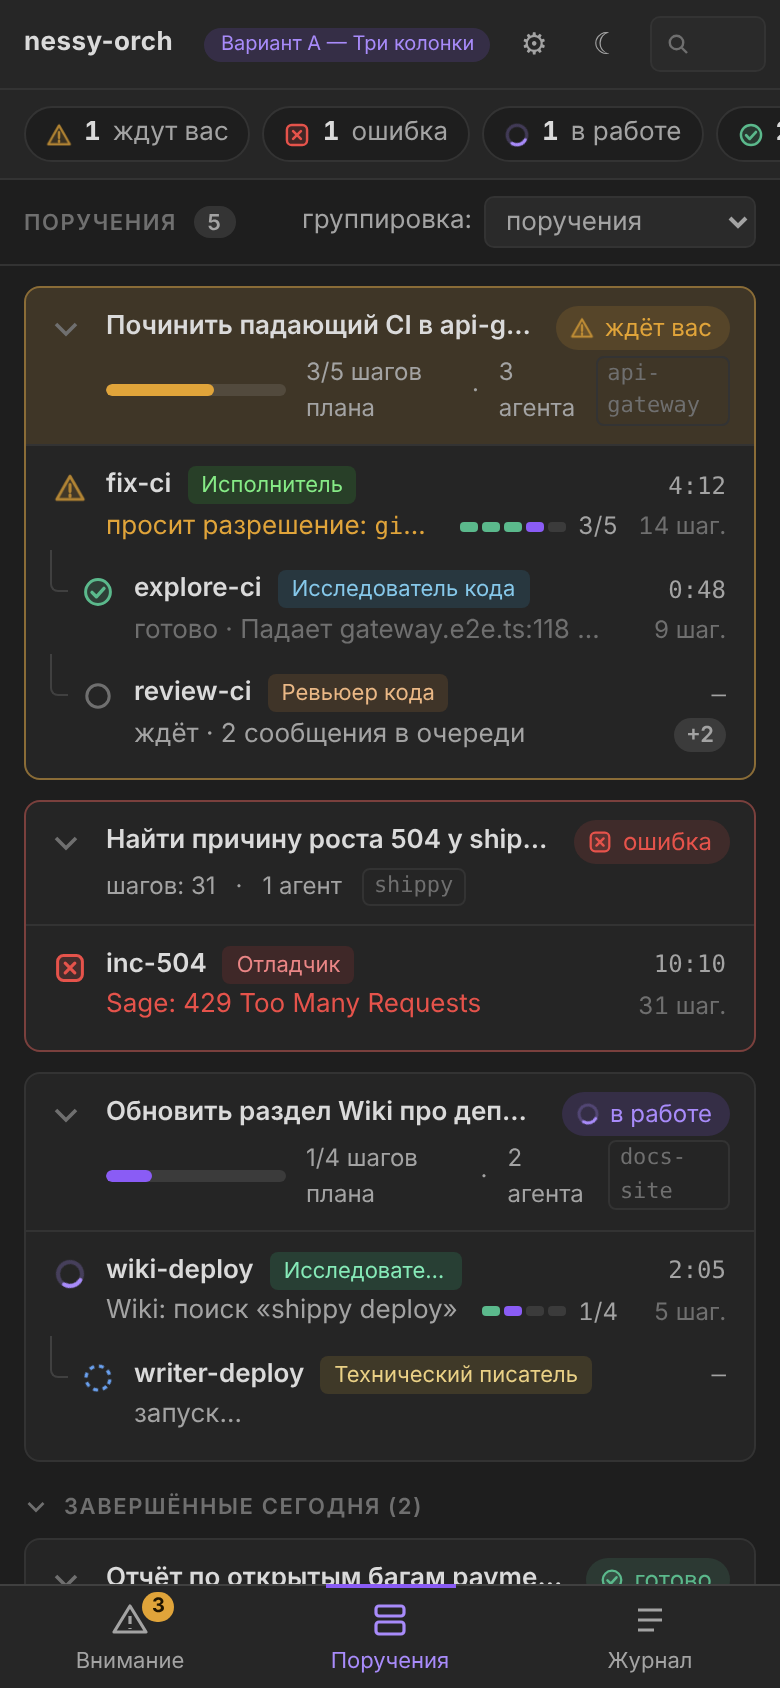
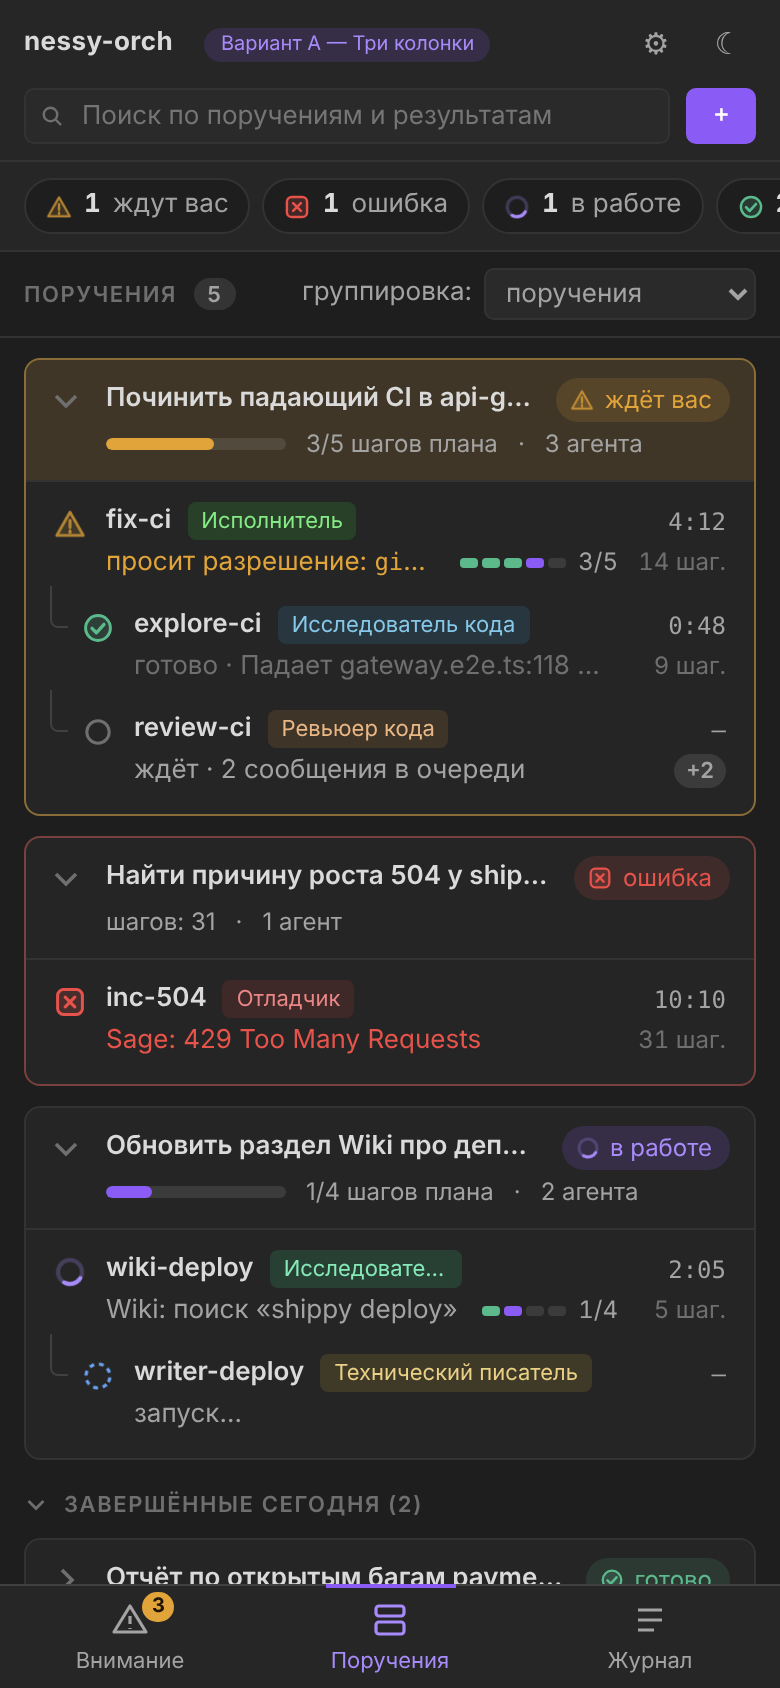
wip(docs): макеты UI v3 (в работе)
Claude-Session: https://claude.ai/code/session_0181iHrdy7NujeVwM1YcZ4FS

diff --git a/docs/mockups/b-board.html b/docs/mockups/b-board.html
@@ -61,9 +61,9 @@ code,.mono{font-family:var(--font-mono);font-size:12px}
 .col{flex:1 1 0;min-width:0;display:flex;flex-direction:column;background:var(--bg-alt);border:1px solid var(--border);border-radius:var(--r-lg);overflow:hidden}
 .col-h{flex:none;display:flex;align-items:center;gap:8px;padding:10px 12px 8px}
 .col-h .dot{width:8px;height:8px;border-radius:50%;flex:none}
-.col-h h2{margin:0;font-size:var(--fs-md);font-weight:600}
+.col-h h2{white-space:nowrap;margin:0;font-size:var(--fs-md);font-weight:600}
 .col-h .num{color:var(--text-muted);font-variant-numeric:tabular-nums;background:var(--bg-hover);border-radius:var(--r-full);padding:0 7px;font-size:var(--fs-sm)}
-.col-h .hint{margin-left:auto;font-size:var(--fs-xs);color:var(--text-faint);white-space:nowrap;overflow:hidden;text-overflow:ellipsis}
+.col-h .hint{margin-left:auto;min-width:0;flex:0 1 auto;font-size:var(--fs-xs);color:var(--text-faint);white-space:nowrap;overflow:hidden;text-overflow:ellipsis}
 .col-b{flex:1;min-height:0;overflow-y:auto;padding:4px 10px 12px;display:flex;flex-direction:column;gap:10px}
 .board.filtered .col-b{display:grid;grid-template-columns:repeat(auto-fill,minmax(330px,1fr));align-content:start}
 .empty{margin:auto;padding:24px 12px;text-align:center;color:var(--text-faint);font-size:var(--fs-sm);border:1px dashed var(--border);border-radius:var(--r-md);width:100%}
@@ -91,7 +91,7 @@ code,.mono{font-family:var(--font-mono);font-size:12px}
 .time{margin-left:auto;flex:none;font-variant-numeric:tabular-nums;font-family:var(--font-mono);font-size:11.5px;color:var(--text-muted)}
 .time.stale{color:var(--warn)}
 .avs{display:flex;align-items:center}
-.avs .av{margin-left:-6px;box-shadow:0 0 0 2px var(--bg-card)}
+.avs .av{margin-left:-4px;box-shadow:0 0 0 2px var(--bg-card)}
 .avs .av:first-child{margin-left:0}
 .avs-t{margin-left:8px;font-size:var(--fs-sm);color:var(--text-muted)}
 .av{position:relative;flex:none;width:24px;height:24px;border-radius:50%;background:hsl(var(--h) 38% 40%);color:#fff;font-size:9.5px;font-weight:700;letter-spacing:.02em;display:grid;place-items:center}
@@ -159,8 +159,9 @@ code,.mono{font-family:var(--font-mono);font-size:12px}
 .ag .chev{flex:none;width:12px;color:var(--text-faint);transition:transform var(--dur);font-size:10px}
 .ag.open .chev{transform:rotate(90deg)}
 .ag-n{min-width:0;flex:1}
-.ag-n .l1{display:flex;gap:8px;align-items:baseline}
-.ag-n .nm{font-weight:600}
+.ag-n .l1{display:flex;gap:8px;align-items:baseline;min-width:0}
+.ag-n .rl{overflow:hidden;text-overflow:ellipsis;white-space:nowrap}
+.ag-n .nm{font-weight:600;white-space:nowrap}
 .ag-n .rl{color:var(--text-muted);font-size:var(--fs-sm)}
 .ag-n .l2{color:var(--text-muted);font-size:var(--fs-sm);white-space:nowrap;overflow:hidden;text-overflow:ellipsis}
 .ag-r{display:flex;gap:6px;align-items:center;flex:none}
@@ -229,7 +230,10 @@ code,.mono{font-family:var(--font-mono);font-size:12px}
 /* ---------- мобильная раскладка ---------- */
 @media (max-width:820px){
 	.top{flex-wrap:wrap;height:auto;padding:8px 12px 8px;gap:8px;row-gap:8px}
-	.brand{order:1;flex:1}
+	.spacer{display:none}
+	.brand{order:1;flex:1;white-space:nowrap}
+	.brand b{white-space:nowrap}
+	.actions{gap:4px}
 	.actions{order:2}
 	.counters{order:3;width:100%;gap:0;padding:2px;background:var(--bg-active);border-radius:var(--r-md)}
 	.search{order:4;width:100%}
@@ -254,6 +258,8 @@ code,.mono{font-family:var(--font-mono);font-size:12px}
 	.p-b{padding:12px}
 	.composer{padding:8px 12px 10px}
 	.ag-r .rt{display:none}
+	.composer .bt .g-mute{display:none}
+	.composer label{white-space:nowrap}
 	.dlg .two{grid-template-columns:1fr}
 }
 @media (min-width:821px) and (max-width:1180px){
@@ -435,7 +441,7 @@ const board = $('#board')
 function visibleCols() { return COLS.map((c) => ({ ...c, tasks: S.tasks.filter((t) => matches(t) && colOf(t) === c.key) })) }
 function sortWait(a, b) { return (b.agents.some((x) => x.perm) ? 1 : 0) - (a.agents.some((x) => x.perm) ? 1 : 0) }
 function renderCounters(cols) {
-	$('#counters').innerHTML = cols.map((c) => `<button class="cnt c-${c.key}${c.key === 'wait' && c.tasks.length ? ' has' : ''}" data-act="cnt" data-col="${c.key}" aria-pressed="${mobile() ? Math.round(board.scrollLeft / Math.max(1, board.clientWidth)) === COLS.findIndex((x) => x.key === c.key) : S.filter === c.key}" title="${c.title}"><span class="g">${c.glyph}</span><span class="n">${c.tasks.length}</span><span class="l-f">${c.title.replace('Готово — не просмотрено', 'Не просмотрено')}</span><span class="l-s">${c.short}</span></button>`).join('')
+	$('#counters').innerHTML = cols.map((c) => `<button class="cnt c-${c.key}${c.key === 'wait' && c.tasks.length ? ' has' : ''}" data-act="cnt" data-col="${c.key}" aria-pressed="${mobile() ? Math.round(board.scrollLeft / Math.max(1, board.clientWidth)) === COLS.findIndex((x) => x.key === c.key) : S.filter === c.key}" title="${c.title}"><span class="g">${c.key === 'work' && c.tasks.length ? '<span class="spin sm" style="margin:0;display:block"></span>' : c.glyph}</span><span class="n">${c.tasks.length}</span><span class="l-f">${c.title.replace('Готово — не просмотрено', 'Не просмотрено')}</span><span class="l-s">${c.short}</span></button>`).join('')
 	const w = cols[0].tasks.length
 	document.title = (w ? `(${w}) ` : '') + 'nessy-orch — Вариант B — Доска'
 }
@@ -513,7 +519,7 @@ function chatOf(a, t) {
 	return base.concat(S.chat[a.id] || [])
 }
 const STATUS = {
-	perm: ['warn', '▲ ждёт вас'], error: ['err', '✖ ошибка'], working: ['acc', '◐ в работе'], starting: ['', '◌ запуск'], idle: ['', '○ пауза'], done: ['ok', '✓ готово'],
+	perm: ['warn', '▲ ждёт вас'], error: ['err', '✖ ошибка'], working: ['acc', '<span class="spin sm" style="margin:0"></span> в работе'], starting: ['', '◌ запуск'], idle: ['', '○ пауза'], done: ['ok', '✓ готово'],
 }
 const stOf = (a) => STATUS[a.perm ? 'perm' : a.status]
 function permBtns(a) { return `<button class="btn ok sm" data-act="allow" data-agent="${a.id}">Разрешить</button><button class="btn no sm" data-act="deny" data-agent="${a.id}">Отклонить</button>` }
@@ -562,7 +568,7 @@ function renderDrawer() {
 	const t = findTask(S.open)
 	if (!t) return
 	const col = colOf(t), sub = taskSub(t), p = progress(t), pct = p.n ? Math.round(p.d / p.n * 100) : 0
-	const st = sub === 'perm' ? ['warn', '▲ ждёт вас'] : sub === 'error' ? ['err', '✖ ошибка'] : col === 'work' ? ['acc', '◐ в работе'] : col === 'review' ? ['acc', '● новый результат'] : ['ok', '✓ готово']
+	const st = sub === 'perm' ? ['warn', '▲ ждёт вас'] : sub === 'error' ? ['err', '✖ ошибка'] : col === 'work' ? ['acc', '<span class="spin sm" style="margin:0"></span> в работе'] : col === 'review' ? ['acc', '● новый результат'] : ['ok', '✓ готово']
 	const pa = t.agents.find((a) => a.perm), ea = t.agents.find((a) => a.status === 'error')
 	const barCls = sub === 'perm' ? 'warn' : sub === 'error' ? 'danger' : col === 'done' || col === 'review' ? 'ok' : ''
 	const prevB = drawer.querySelector('.p-b'), sc = prevB ? prevB.scrollTop : 0

diff --git a/docs/mockups/a-console.html b/docs/mockups/a-console.html
@@ -128,7 +128,7 @@ code{font-family:var(--font-mono);font-size:var(--fs-sm);background:var(--bg-cod
 .tm{font-variant-numeric:tabular-nums;color:var(--text-muted);font-family:var(--font-mono);font-size:var(--fs-sm)}
 .tm.stale{color:var(--warn)}
 .t-meta{grid-column:2 / 4;display:flex;align-items:center;gap:10px;color:var(--text-muted);font-size:var(--fs-sm);min-width:0}
-.bar{position:relative;width:150px;height:6px;border-radius:6px;background:var(--bg-active);overflow:hidden;flex:none}
+.t-meta>span{white-space:nowrap;flex:none}.t-meta>.t-prev{flex:1 1 0}.bar{position:relative;width:150px;height:6px;border-radius:6px;background:var(--bg-active);overflow:hidden;flex:none}
 .bar i{position:absolute;inset:0 auto 0 0;background:var(--accent);border-radius:6px}
 .bar.wait i{background:var(--warn)}.bar.error i{background:var(--danger)}.bar.done i{background:var(--success)}
 .pulse-dot{width:7px;height:7px;border-radius:50%;background:var(--accent);animation:pulse 1.4s ease-in-out infinite;flex:none}
@@ -165,6 +165,7 @@ code{font-family:var(--font-mono);font-size:var(--fs-sm);background:var(--bg-cod
 	.row>.ic{grid-area:ic;align-self:start;margin-top:3px}
 	.row>.who{grid-area:who}.row>.act{grid-area:act}.row>.meta{grid-area:meta}.row>.tm{grid-area:tm}
 	.t-right .tm.total{display:none}
+	.t-meta .sp-chip{display:none}
 	.bar{width:90px}
 }
 
@@ -288,7 +289,7 @@ kbd{font:var(--fs-xs) var(--font-mono);border:1px solid var(--border-strong);bor
 	.top .vtag{display:inline-block;font-size:10px}
 	.top .sp{display:none}
 	.top .brand{order:0}.top .vtag{order:1;margin-right:auto}.top .menu-wrap{order:2}.top #themeBtn{order:3}
-	.top .search{order:5;flex:1;width:auto;min-width:0}.top #newBtn{order:6}
+	.top .search{order:5;flex:1 0 60%;width:auto;min-width:0}.top #newBtn{order:6}
 	.mchips{display:flex;gap:6px;overflow-x:auto;padding:8px 12px;border-bottom:1px solid var(--border);flex:none;background:var(--bg-alt)}
 	.mchips .chip{flex:none}
 	.main{display:block;flex:1;min-height:0;overflow:hidden}
